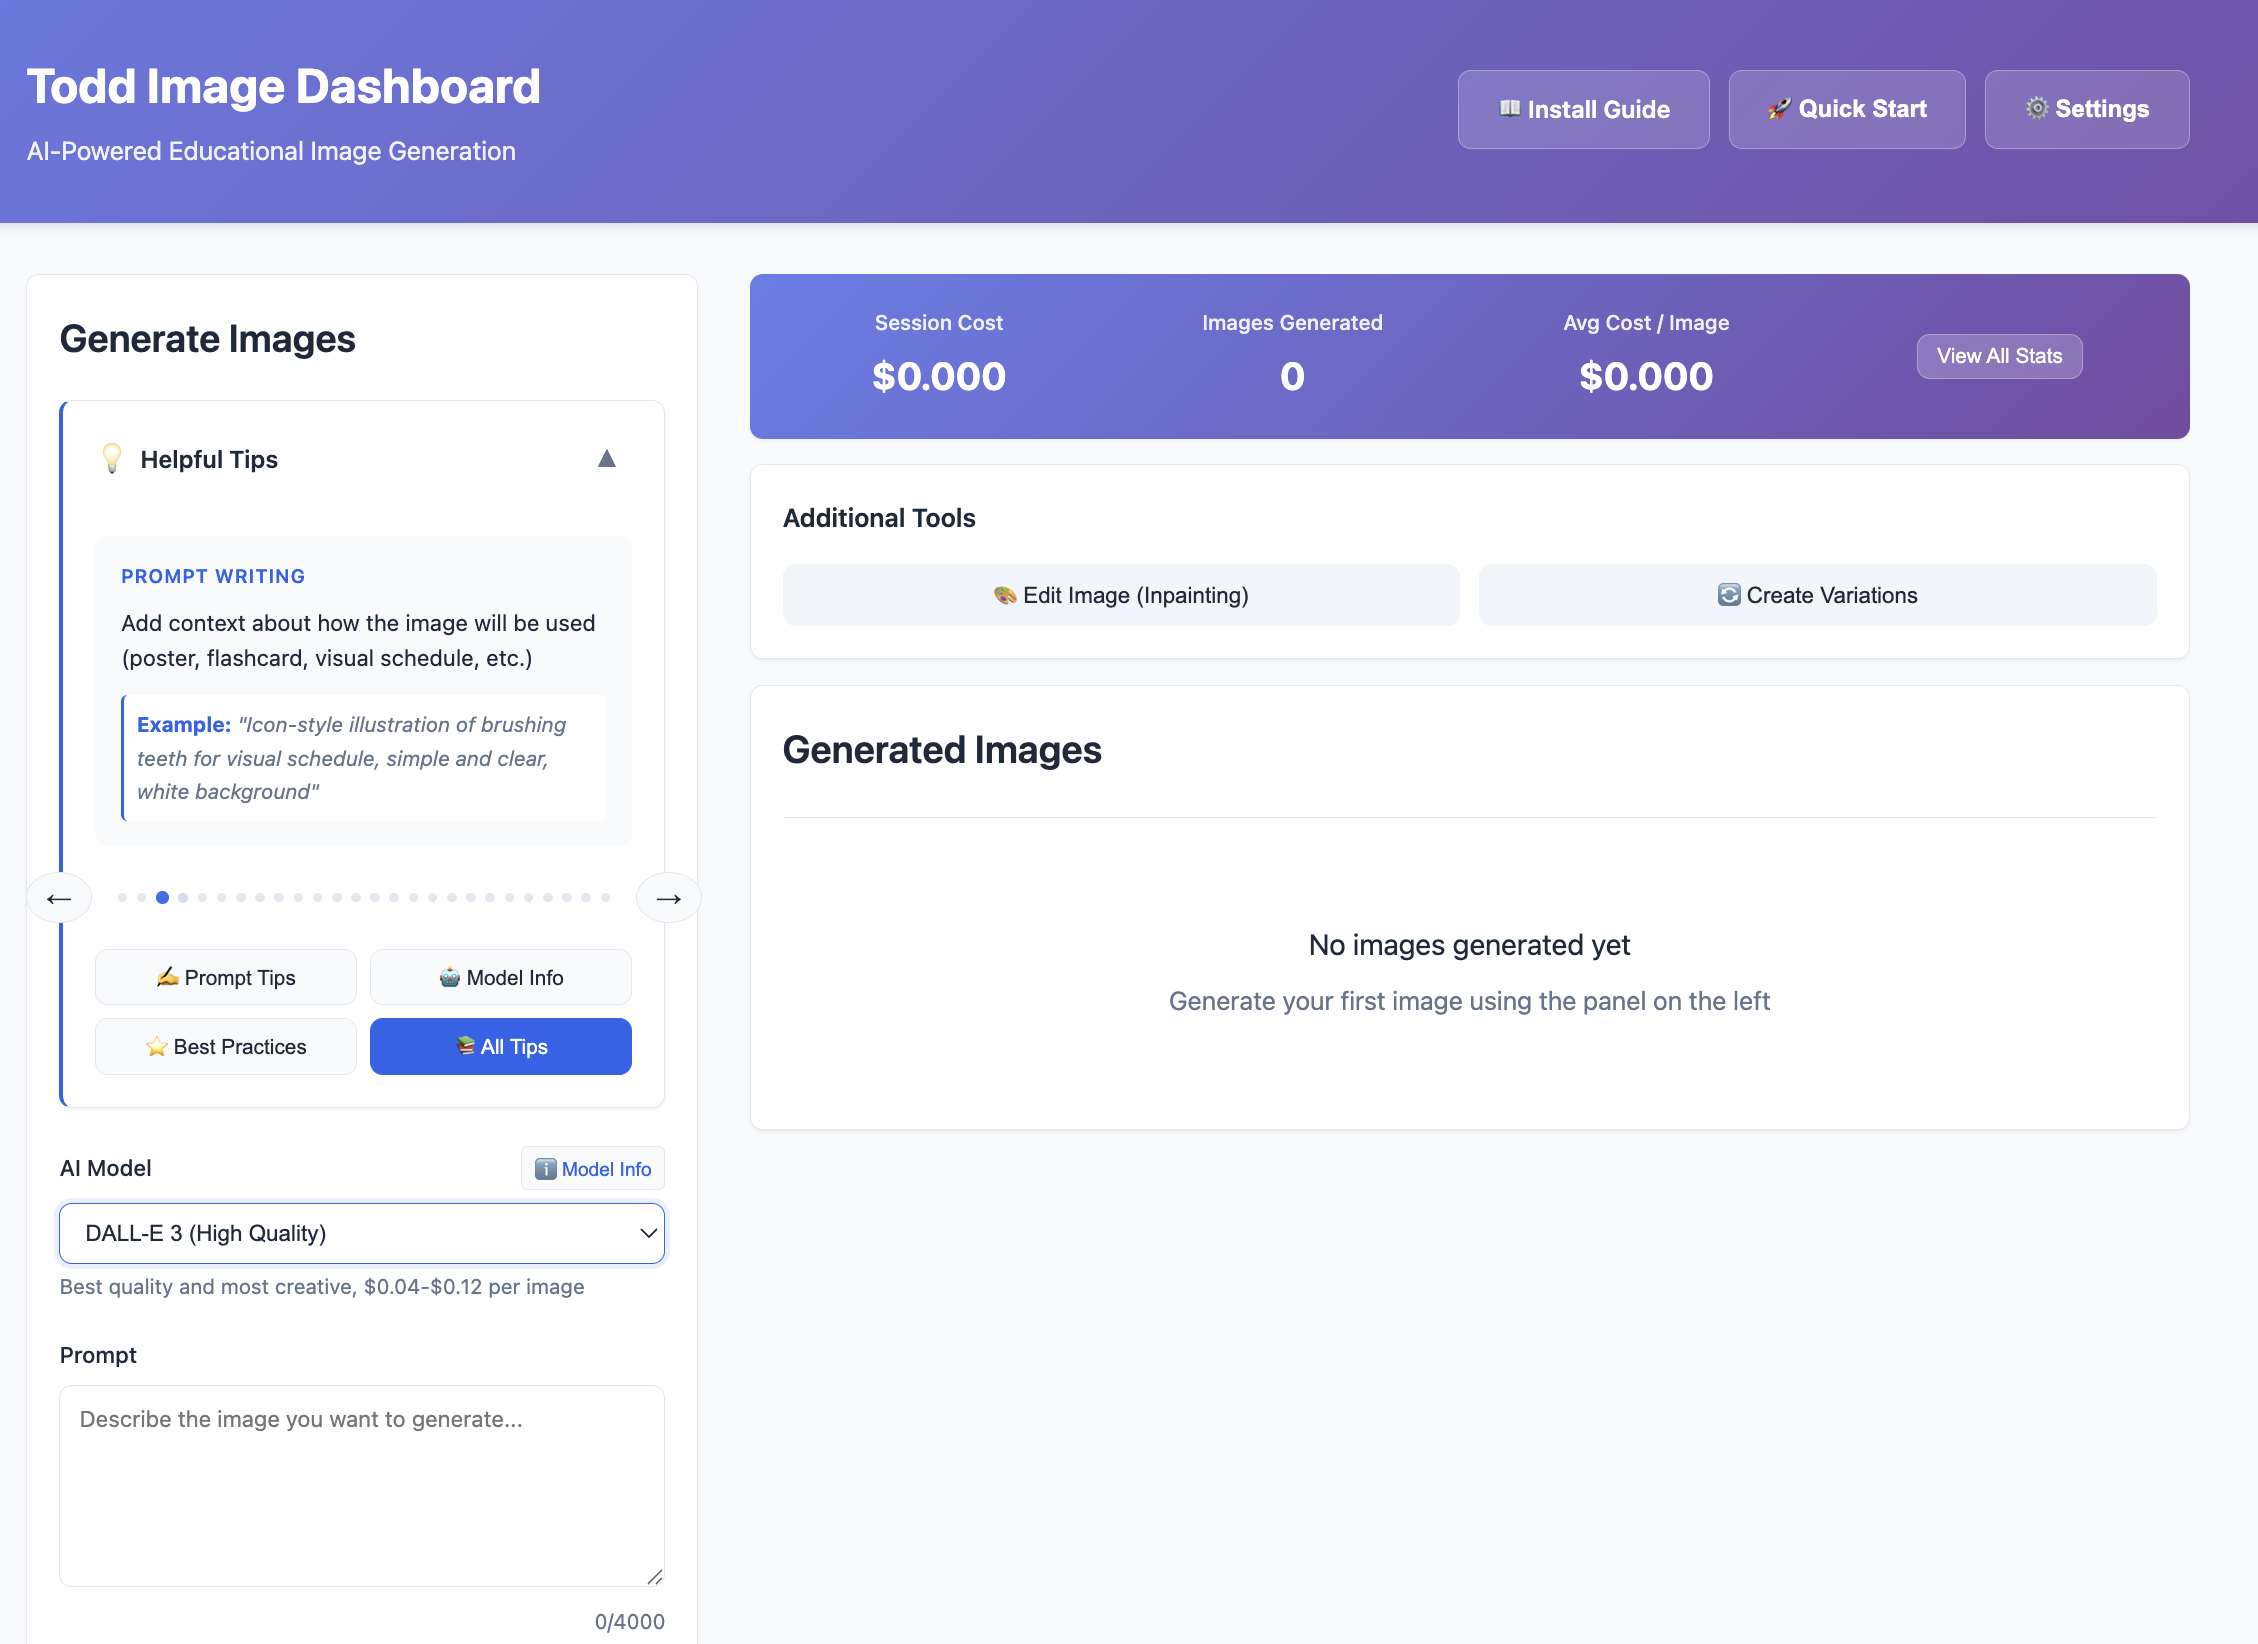
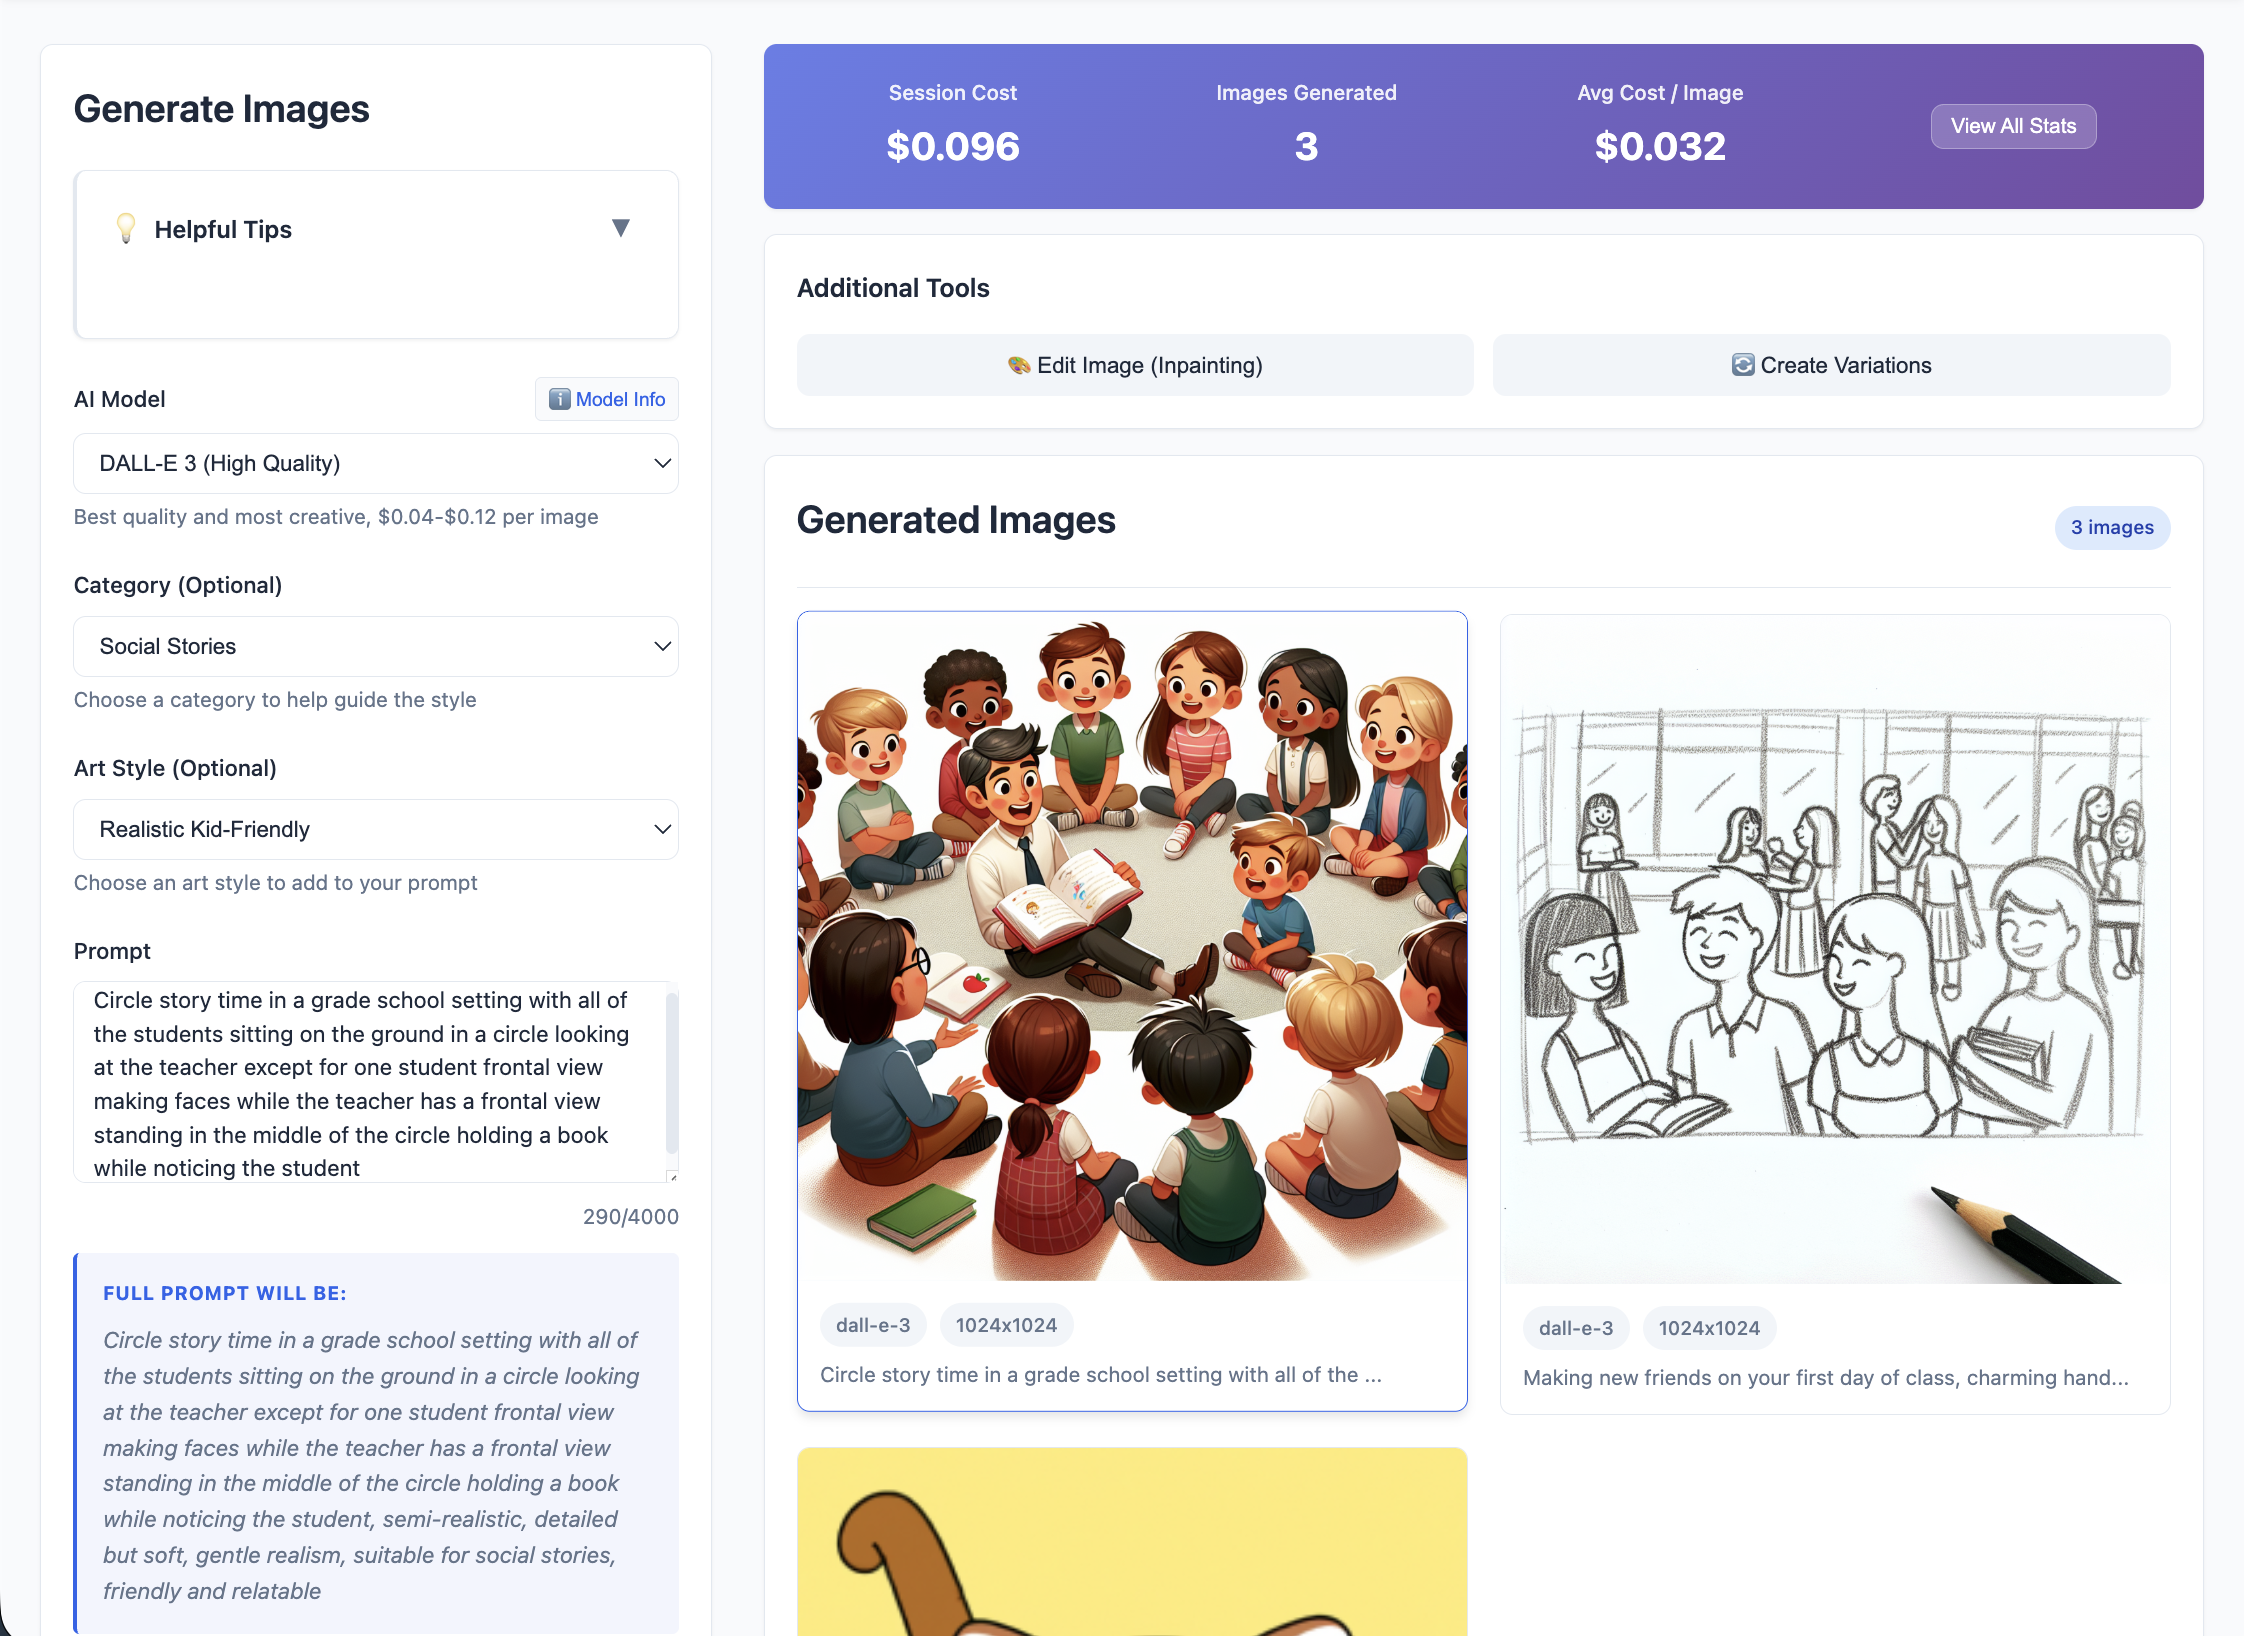
changes

diff --git a/server/routes/images.js b/server/routes/images.js
@@ -1,0 +1,140 @@
+/**
+ * Images Routes
+ * Handle listing and retrieving generated images with metadata
+ */
+
+const express = require('express');
+const fs = require('fs');
+const path = require('path');
+
+const router = express.Router();
+
+/**
+ * GET /api/images
+ * List all generated images with their metadata
+ */
+router.get('/', (req, res) => {
+  try {
+    const imagesDir = path.join(__dirname, '../../Images');
+
+    // Ensure directory exists
+    if (!fs.existsSync(imagesDir)) {
+      fs.mkdirSync(imagesDir, { recursive: true });
+      return res.json({
+        success: true,
+        images: []
+      });
+    }
+
+    // Read all files in the Images directory
+    const files = fs.readdirSync(imagesDir);
+
+    // Filter for image files and load their metadata
+    const images = [];
+    const imageExtensions = ['.png', '.jpg', '.jpeg', '.webp'];
+
+    for (const file of files) {
+      const ext = path.extname(file).toLowerCase();
+
+      // Skip non-image files
+      if (!imageExtensions.includes(ext)) {
+        continue;
+      }
+
+      const imagePath = path.join(imagesDir, file);
+      const metadataPath = imagePath.replace(new RegExp(`${ext}$`), '.json');
+
+      // Load metadata if it exists
+      let metadata = null;
+      if (fs.existsSync(metadataPath)) {
+        try {
+          const metadataContent = fs.readFileSync(metadataPath, 'utf-8');
+          metadata = JSON.parse(metadataContent);
+        } catch (err) {
+          console.warn(`Could not read metadata for ${file}:`, err.message);
+        }
+      }
+
+      // Get file stats
+      const stats = fs.statSync(imagePath);
+
+      images.push({
+        filename: file,
+        url: `/images/${file}`,
+        metadata: metadata || {
+          filename: file,
+          generatedAt: stats.birthtime.toISOString()
+        },
+        createdAt: stats.birthtime.toISOString(),
+        size: stats.size
+      });
+    }
+
+    // Sort by creation time (newest first)
+    images.sort((a, b) => {
+      const dateA = new Date(a.createdAt);
+      const dateB = new Date(b.createdAt);
+      return dateB - dateA;
+    });
+
+    res.json({
+      success: true,
+      images,
+      count: images.length
+    });
+
+  } catch (error) {
+    console.error('Error listing images:', error);
+    res.status(500).json({
+      success: false,
+      error: error.message
+    });
+  }
+});
+
+/**
+ * DELETE /api/images/:filename
+ * Delete an image and its metadata
+ */
+router.delete('/:filename', (req, res) => {
+  try {
+    const { filename } = req.params;
+    const imagesDir = path.join(__dirname, '../../Images');
+
+    // Security: prevent path traversal
+    if (filename.includes('..') || filename.includes('/') || filename.includes('\\')) {
+      return res.status(400).json({
+        success: false,
+        error: 'Invalid filename'
+      });
+    }
+
+    const imagePath = path.join(imagesDir, filename);
+    const ext = path.extname(filename);
+    const metadataPath = imagePath.replace(new RegExp(`${ext}$`), '.json');
+
+    // Delete image file
+    if (fs.existsSync(imagePath)) {
+      fs.unlinkSync(imagePath);
+    }
+
+    // Delete metadata file
+    if (fs.existsSync(metadataPath)) {
+      fs.unlinkSync(metadataPath);
+    }
+
+    res.json({
+      success: true,
+      message: 'Image deleted successfully'
+    });
+
+  } catch (error) {
+    console.error('Error deleting image:', error);
+    res.status(500).json({
+      success: false,
+      error: error.message
+    });
+  }
+});
+
+module.exports = router;

diff --git a/client/src/App.vue b/client/src/App.vue
@@ -90,6 +90,7 @@
 
 <script setup>
 import { ref, onMounted } from 'vue';
+import axios from 'axios';
 import GeneratePanel from './components/GeneratePanel.vue';
 import ImageGallery from './components/ImageGallery.vue';
 import UsageDisplay from './components/UsageDisplay.vue';
@@ -108,6 +109,18 @@ const showSettings = ref(false);
 const showWizard = ref(false);
 
 const { loadSessionStats } = useUsageTracking();
+
+// Load existing images from server
+const loadExistingImages = async () => {
+  try {
+    const response = await axios.get('/api/images');
+    if (response.data.success && response.data.images) {
+      generatedImages.value = response.data.images;
+    }
+  } catch (error) {
+    console.error('Error loading existing images:', error);
+  }
+};
 
 // Check if this is first time user and show wizard
 onMounted(() => {
@@ -130,6 +143,7 @@ onMounted(() => {
 
 onMounted(async () => {
   await refreshStats();
+  await loadExistingImages();
 });
 
 const handleImageGenerated = (result) => {

diff --git a/server/server.js b/server/server.js
@@ -14,6 +14,7 @@ const generateRoutes = require('./routes/generate');
 const editRoutes = require('./routes/edit');
 const presetRoutes = require('./routes/presets');
 const usageRoutes = require('./routes/usage');
+const imagesRoutes = require('./routes/images');
 
 const app = express();
 const PORT = process.env.PORT || 3000;
@@ -53,6 +54,7 @@ app.use('/api/generate', generateRoutes);
 app.use('/api/edit', editRoutes);
 app.use('/api/presets', presetRoutes);
 app.use('/api/usage', usageRoutes);
+app.use('/api/images', imagesRoutes);
 
 // Category icons endpoint
 app.get('/api/category-icons', (req, res) => {
